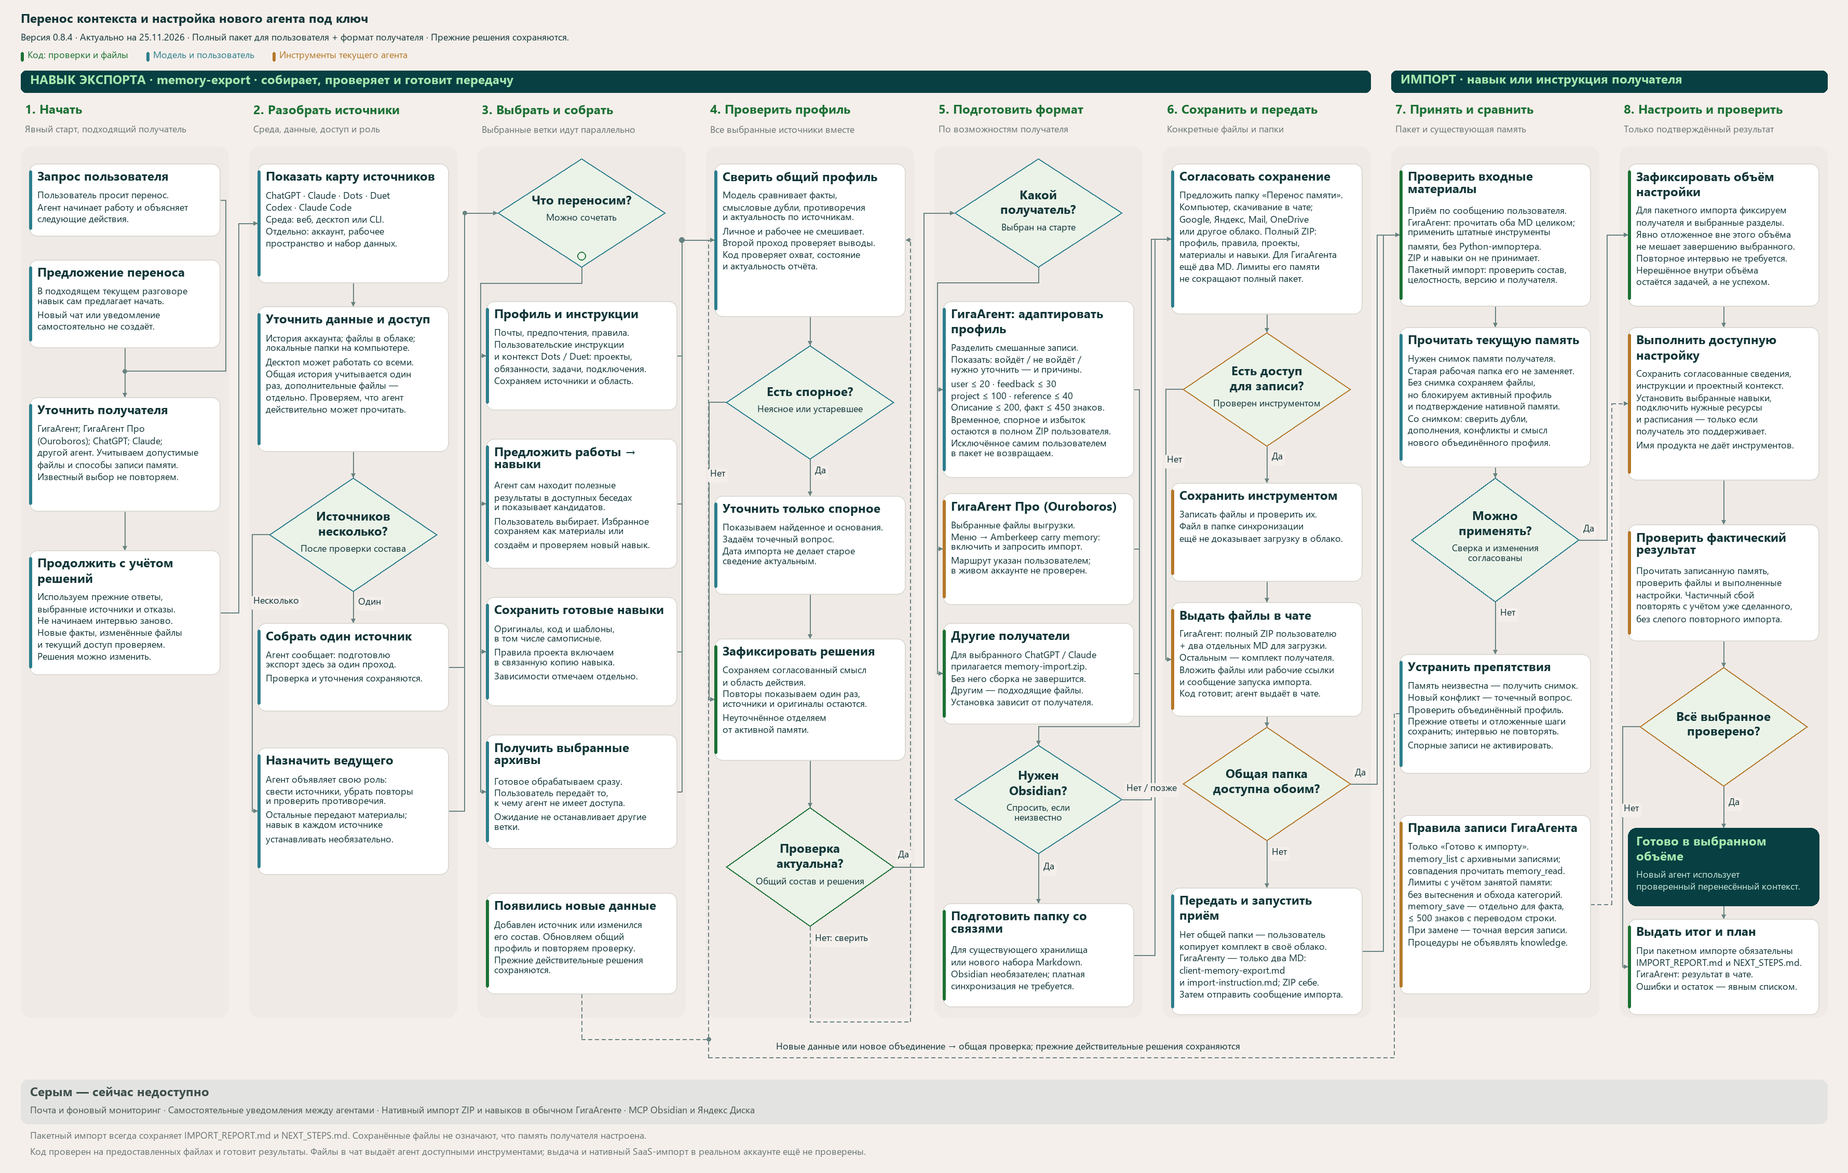
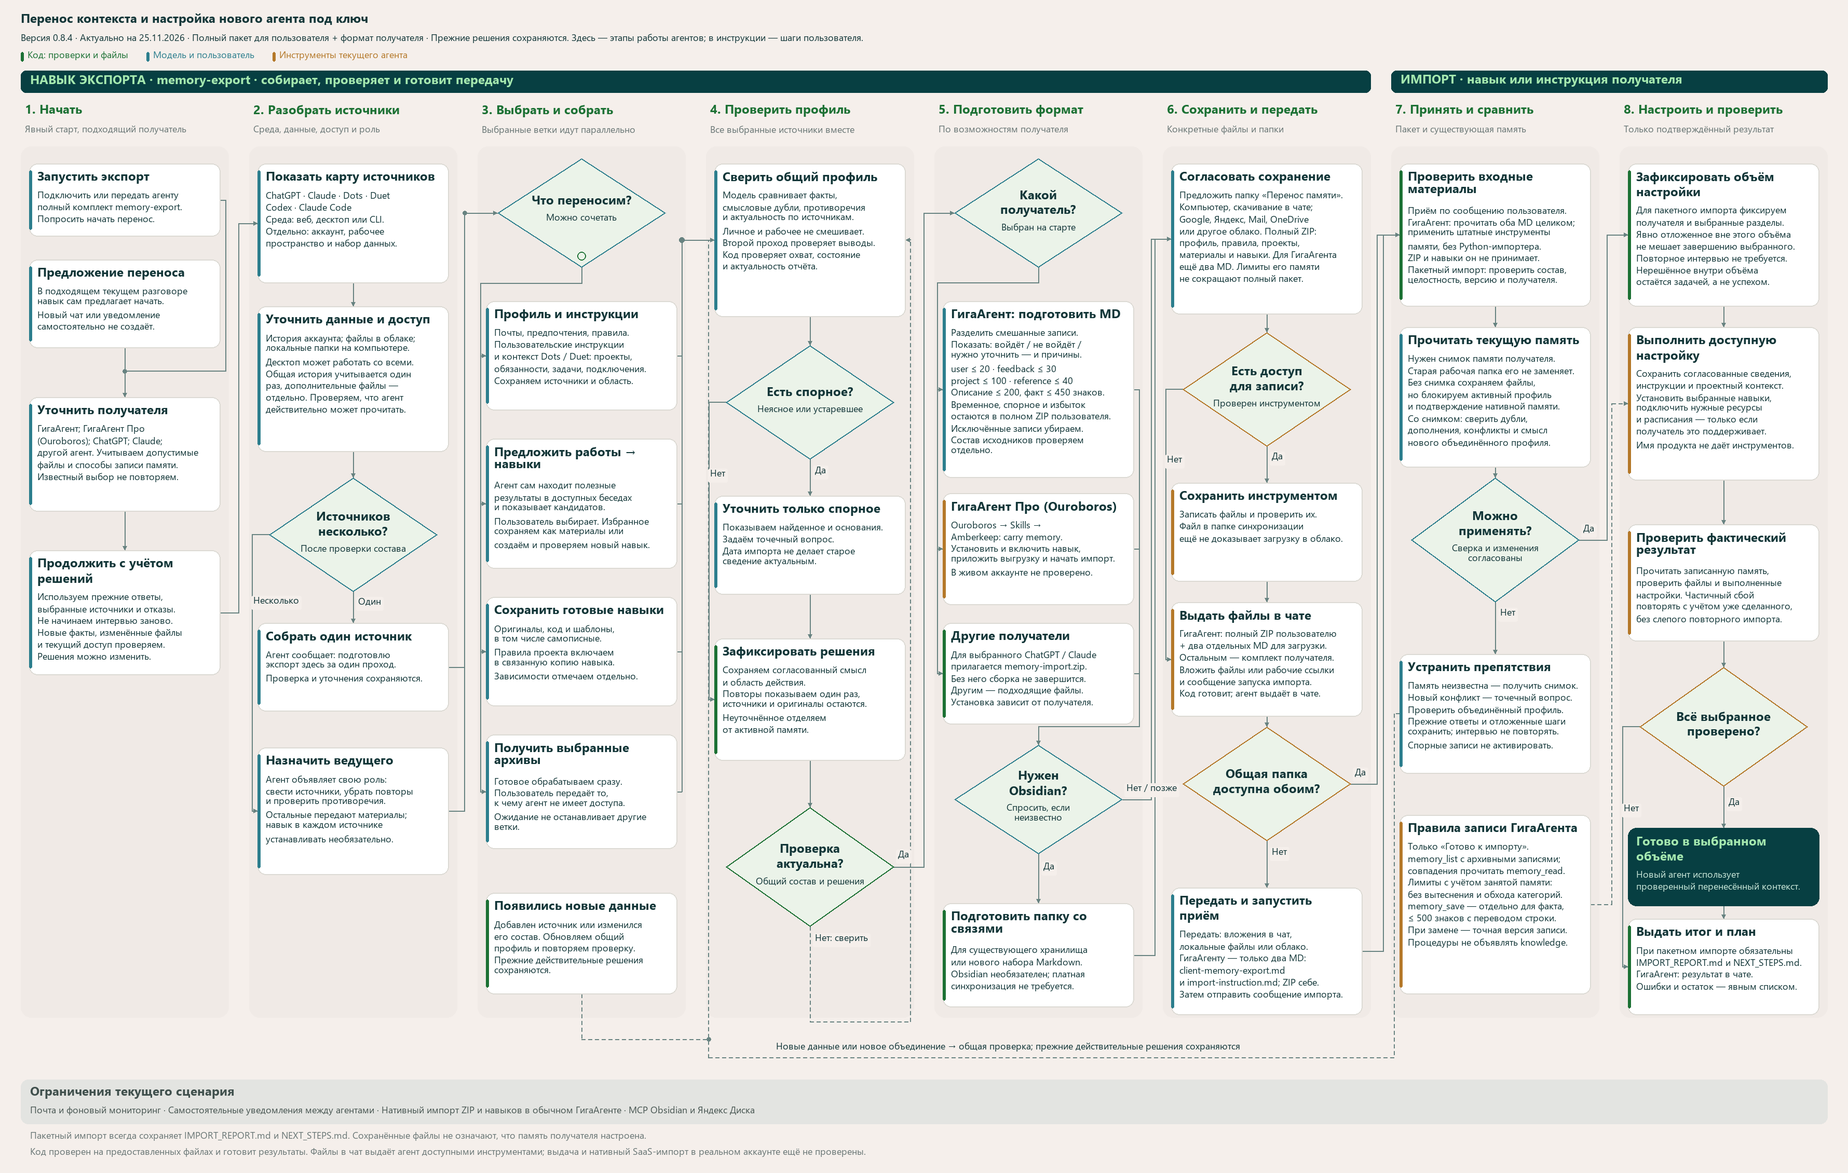
Align user journey with interactive transfer guide

diff --git a/scripts/build_diagram.py b/scripts/build_diagram.py
@@ -222,7 +222,7 @@ def build(out, *, main_only=False):
     canvas = Canvas(height=2260, width=3560)
     columns = [40 + i * 440 for i in range(8)]
     canvas.text(40, 26, "Перенос контекста и настройка нового агента под ключ", size=TITLE_SIZE)
-    canvas.text(40, 65, "Версия 0.8.4 · Актуально на 25.11.2026 · Полный пакет для пользователя + формат получателя · Прежние решения сохраняются.")
+    canvas.text(40, 65, "Версия 0.8.4 · Актуально на 25.11.2026 · Полный пакет для пользователя + формат получателя · Прежние решения сохраняются. Здесь — этапы работы агентов; в инструкции — шаги пользователя.")
     execution_legend(canvas, 40, 99)
     canvas.rect(40, 136, 2600, 42, fill=TEAL, radius=10)
     canvas.text(58, 144, "НАВЫК ЭКСПОРТА · memory-export · собирает, проверяет и готовит передачу", size=TITLE_SIZE, color="#A5E8AF")
@@ -244,7 +244,7 @@ def build(out, *, main_only=False):
         nodes[key] = Node(key, columns[col]+(400-width)/2, cy-h/2, width, h, title, body,
                           "diamond", inclusive=inclusive, execution=execution)
 
-    box("request", 0, 315, 140, "Запрос пользователя", "Пользователь просит перенос.\nАгент начинает работу и объясняет\nследующие действия.")
+    box("request", 0, 315, 140, "Запустить экспорт", "Подключить или передать агенту\nполный комплект memory-export.\nПопросить начать перенос.")
     box("offer", 0, 500, 170, "Предложение переноса", "В подходящем текущем разговоре\nнавык сам предлагает начать.\nНовый чат или уведомление\nсамостоятельно не создаёт.")
     box("recipient", 0, 765, 220, "Уточнить получателя", "ГигаАгент; ГигаАгент Про\n(Ouroboros); ChatGPT; Claude;\nдругой агент. Учитываем допустимые\nфайлы и способы записи памяти.\nИзвестный выбор не повторяем.")
     box("resume", 0, 1060, 240, "Продолжить с учётом решений", "Используем прежние ответы,\nвыбранные источники и отказы.\nНе начинаем интервью заново.\nНовые факты, изменённые файлы\nи текущий доступ проверяем.\nРешения можно изменить.")
@@ -269,8 +269,8 @@ def build(out, *, main_only=False):
     diamond("export-gate", 3, 1670, 230, "Проверка\nактуальна?", "Общий состав и решения", execution="code")
 
     diamond("target", 4, 410, 210, "Какой\nполучатель?", "Выбран на старте")
-    box("giga-format", 4, 580, 340, "ГигаАгент: адаптировать профиль", "Разделить смешанные записи.\nПоказать: войдёт / не войдёт /\nнужно уточнить — и причины.\nuser ≤ 20 · feedback ≤ 30\nproject ≤ 100 · reference ≤ 40\nОписание ≤ 200, факт ≤ 450 знаков.\nВременное, спорное и избыток\nостаются в полном ZIP пользователя.\nИсключённое самим пользователем\nв пакет не возвращаем.")
-    box("pro-format", 4, 950, 215, "ГигаАгент Про (Ouroboros)", "Выбранные файлы выгрузки.\nМеню → Amberkeep carry memory:\nвключить и запросить импорт.\nМаршрут указан пользователем;\nв живом аккаунте не проверен.", execution="tools")
+    box("giga-format", 4, 580, 340, "ГигаАгент: подготовить MD", "Разделить смешанные записи.\nПоказать: войдёт / не войдёт /\nнужно уточнить — и причины.\nuser ≤ 20 · feedback ≤ 30\nproject ≤ 100 · reference ≤ 40\nОписание ≤ 200, факт ≤ 450 знаков.\nВременное, спорное и избыток\nостаются в полном ZIP пользователя.\nИсключённые записи убираем.\nСостав исходников проверяем отдельно.")
+    box("pro-format", 4, 950, 215, "ГигаАгент Про (Ouroboros)", "Ouroboros → Skills →\nAmberkeep: carry memory.\nУстановить и включить навык,\nприложить выгрузку и начать импорт.\nВ живом аккаунте не проверено.", execution="tools")
     box("other-format", 4, 1200, 195, "Другие получатели", "Для выбранного ChatGPT / Claude\nприлагается memory-import.zip.\nБез него сборка не завершится.\nДругим — подходящие файлы.\nУстановка зависит от получателя.", execution="code")
     diamond("obsidian", 4, 1540, 210, "Нужен\nObsidian?", "Спросить, если неизвестно")
     box("vault", 4, 1740, 200, "Подготовить папку со связями", "Для существующего хранилища\nили нового набора Markdown.\nObsidian необязателен; платная\nсинхронизация не требуется.", execution="code")
@@ -280,7 +280,7 @@ def build(out, *, main_only=False):
     box("save-tool", 5, 930, 190, "Сохранить инструментом", "Записать файлы и проверить их.\nФайл в папке синхронизации\nещё не доказывает загрузку в облако.", execution="tools")
     box("save-user", 5, 1160, 220, "Выдать файлы в чате", "ГигаАгент: полный ZIP пользователю\n+ два отдельных MD для загрузки.\nОстальным — комплект получателя.\nВложить файлы или рабочие ссылки\nи сообщение запуска импорта.\nКод готовит; агент выдаёт в чате.", execution="tools")
     diamond("shared-folder", 5, 1510, 220, "Общая папка\nдоступна обоим?", execution="tools")
-    box("copy", 5, 1710, 245, "Передать и запустить приём", "Нет общей папки — пользователь\nкопирует комплект в своё облако.\nГигаАгенту — только два MD:\nclient-memory-export.md\nи import-instruction.md; ZIP себе.\nЗатем отправить сообщение импорта.")
+    box("copy", 5, 1710, 245, "Передать и запустить приём", "Передать: вложения в чат,\nлокальные файлы или облако.\nГигаАгенту — только два MD:\nclient-memory-export.md\nи import-instruction.md; ZIP себе.\nЗатем отправить сообщение импорта.")
 
     box("inspect", 6, 315, 275, "Проверить входные материалы", "Приём по сообщению пользователя.\nГигаАгент: прочитать оба MD целиком;\nприменить штатные инструменты\nпамяти, без Python-импортера.\nZIP и навыки он не принимает.\nПакетный импорт: проверить состав,\nцелостность, версию и получателя.", execution="code")
     box("compare", 6, 630, 270, "Прочитать текущую память", "Нужен снимок памяти получателя.\nСтарая рабочая папка его не заменяет.\nБез снимка сохраняем файлы,\nно блокируем активный профиль\nи подтверждение нативной памяти.\nСо снимком: сверить дубли,\nдополнения, конфликты и смысл\nнового объединённого профиля.")
@@ -416,7 +416,7 @@ def build(out, *, main_only=False):
     for x, y, text in labels:
         canvas.text(x, y, text, backing=True)
     canvas.rect(40, 2080, 3480, 85, fill=GRAY, radius=14)
-    canvas.text(58, 2094, "Серым — сейчас недоступно", size=TITLE_SIZE, color="#40504D")
+    canvas.text(58, 2094, "Ограничения текущего сценария", size=TITLE_SIZE, color="#40504D")
     canvas.text(58, 2131, "Почта и фоновый мониторинг · Самостоятельные уведомления между агентами · Нативный импорт ZIP и навыков в обычном ГигаАгенте · MCP Obsidian и Яндекс Диска", color="#485652")
     canvas.text(58, 2180, "Пакетный импорт всегда сохраняет IMPORT_REPORT.md и NEXT_STEPS.md. Сохранённые файлы не означают, что память получателя настроена.", color=MUTED)
     canvas.text(58, 2212, "Код проверен на предоставленных файлах и готовит результаты. Файлы в чат выдаёт агент доступными инструментами; выдача и нативный SaaS-импорт в реальном аккаунте ещё не проверены.", color=MUTED)

diff --git a/README.md b/README.md
@@ -13,7 +13,7 @@
 ## Целевой агент для импорта памяти
 
 - **[ГигаАгент — gigaagent.ru](https://gigaagent.ru). Отдельный навык импорта не нужен.** Экспортёр готовит **полный ZIP выбранных данных для хранения у пользователя** и **дополнительно два отдельных Markdown-файла**: `client-memory-export.md` с адаптированным профилем и `import-instruction.md` с инструкцией приёма. В ГигаАгент загружаются только эти два MD; ZIP остаётся у пользователя для хранения и переноса в другие агенты.
-- **ГигаАгент Про (Ouroboros).** Для импорта воспользуйтесь встроенным навыком **Amberkeep carry memory** в меню агента и передайте ему файлы выгрузки. Отдельный `memory-import.zip` для этого маршрута не нужен. **Маршрут через Amberkeep carry memory ещё не проверен в реальном аккаунте.**
+- **ГигаАгент Про (Ouroboros).** Во вкладке **Skills** найдите **Amberkeep: carry memory** (в каталоге — **Amberkeep**), установите и включите его, затем передайте файлы выгрузки. Отдельный `memory-import.zip` для этого маршрута не нужен. **Маршрут через Amberkeep ещё не проверен в реальном аккаунте.** [Каталог OuroborosHub](https://github.com/razzant/OuroborosHub/blob/main/catalog.json).
 - **ChatGPT, Claude. Нужен `memory-import`.** Если при экспорте выбран один из этих получателей, программа добавляет `memory-import.zip` в комплект вместе с выгрузкой и инструкцией запуска. Отдельно скачивать установщик на GitHub не требуется, если экспортёр передал его вам. Установка и работа навыка требуют соответствующих инструментов принимающего агента.
 
 **Установщик импорта выдаётся не для всех получателей.** Он добавляется программным сценарием для ChatGPT и Claude; без него подготовка такого комплекта завершается ошибкой. Для неуказанного получателя или варианта «другой агент» автоматического добавления нет.
@@ -45,11 +45,11 @@
 
 ## Схема пути пользователя
 
-Версия 0.8.4: сбор источников → общая проверка → полный пакет и файлы для выбранного получателя → передача → проверка памяти и настройка. Для ГигаАгента отдельно показаны ZIP для пользователя и два MD для импорта; серым отмечены недоступные действия.
+Версия 0.8.4: сбор источников → общая проверка → полный пакет и файлы для выбранного получателя → передача → проверка памяти и настройка. Для ГигаАгента отдельно показаны ZIP для пользователя и два MD для импорта; ограничения перечислены в сером блоке. Схема сверена с интерактивной инструкцией: она подробнее показывает работу агентов, поэтому номера этапов отличаются от шагов пользователя.
 
 [![Путь пользователя: экспорт, передача и импорт](docs/diagrams/user-journey.png)](docs/diagrams/user-journey.svg)
 
-[Редактируемый SVG](docs/diagrams/user-journey.svg) · [Скачать SVG](https://github.com/innavosko/portable-agent-memory/releases/download/v0.8.4/user-journey.svg?updated=20261125)
+[Редактируемый SVG](docs/diagrams/user-journey.svg) · [Скачать SVG](https://github.com/innavosko/portable-agent-memory/releases/download/v0.8.4/user-journey.svg?updated=20261125-guide)
 
 ## Что важно учитывать
 
